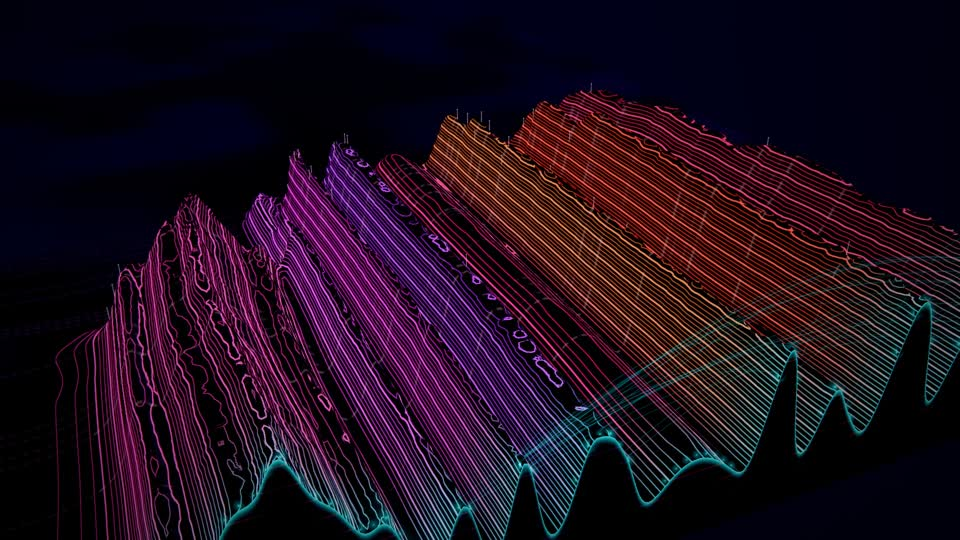
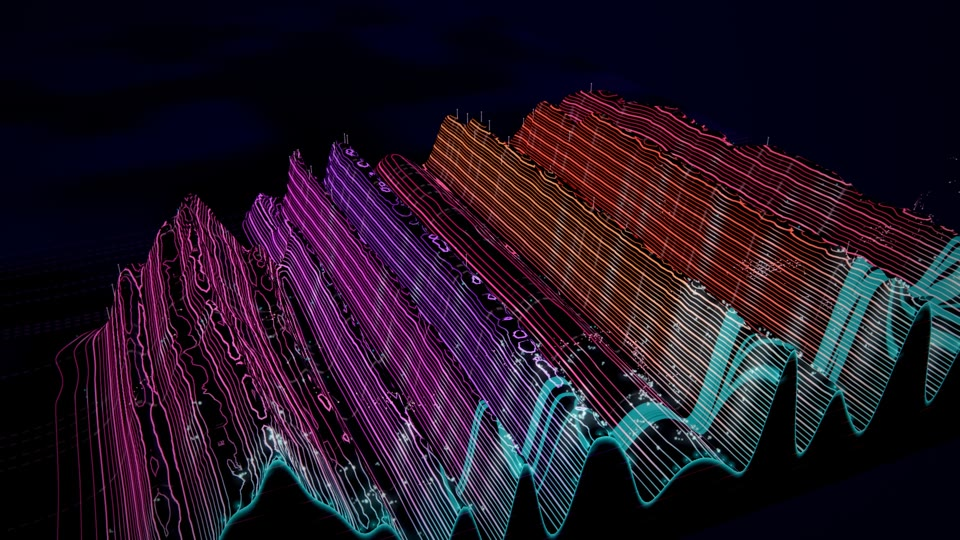
docs(terrain): the idle flight, roads as paths in the land, agents along them, music; what is not done
temporal-terrain.md: a Roads section, how agents travel along roads and meet on one file, the flight over history
under Idle behaviour, a Music section, the flight and the roads under Determinism (worlds.qual.js determinism, idle,
privacy and resources for this family on SwiftShader: 8/8; the same procedure at two moments of Self's flight: same
frame), measured GPU and CPU cost against main, and What is not done brought up to date: the digital life was watched
by the owner in the accepted Lumen Recipes film (life.qual.js still not run), the far-history bullet becomes the
flight's limits, roads are paths now and agents' road journeys never occur in the recorded datasets. New stills: the
hero (Self at 50 %, roads in the land), a full-resolution detail of the roads, the flight at its far point. Two stray
lines at the end of the file are gone. WORLDS.md mentions the roads and the flight; CHANGELOG has an Unreleased entry.

diff --git a/docs/worlds/temporal-terrain.md b/docs/worlds/temporal-terrain.md
@@ -8,23 +8,25 @@ ridges that run back through time from the moment they were created, symbols the
 ridges. A replay lays the land down: every file that arrives raises a ridge at the front edge that then travels back
 with the rest of history; where a ridge grew, its contour lines turn and crowd.
 
-**Status.** The sixth built-in world family (`public/worlds/terrain.js`, `terrain-layout.js`, `terrain-glsl.js`), a
-preview until generator 5 graduated it: the family scores can choose it, it is a base for declarative and shader packs,
-the Visual Studio offers it with two curated looks and the Artist Studio composes over it. Graduating it changed no
-existing identity (see [Selection and compatibility](#selection-and-compatibility)). It can be inhabited: its
-[digital life](#digital-life) (herds of light on the land of time) is on when the recipe's life values say so (new
-identities from generator 5 have it on), and off the world is exactly as it was. The owner watched it, inhabited, on a
-film of the whole Lumen Recipes session (life on, 1920×1080 on the AMD iGPU) and accepted it (2026-10-31); before
-that it was judged from stills only, and its curated looks have not been reviewed (see [What is not done](#what-is-not-done)).
-Everything described here is implemented unless marked *planned*.
+**Status.** The sixth built-in world family (`public/worlds/terrain.js`, `terrain-layout.js`, `terrain-roads.js`,
+`terrain-glsl.js`), a preview until generator 5 graduated it: the family scores can choose it, it is a base for
+declarative and shader packs, the Visual Studio offers it with two curated looks and the Artist Studio composes over it.
+Graduating it changed no existing identity (see [Selection and compatibility](#selection-and-compatibility)). It can be
+inhabited: its [digital life](#digital-life) (herds of light on the land of time) is on when the recipe's life values
+say so (new identities from generator 5 have it on), and off the world is exactly as it was. The owner watched it,
+inhabited, on a film of the whole Lumen Recipes session (life on, 1920×1080 on the AMD iGPU) and accepted it
+(2026-10-31); before that it was judged from stills only, and its curated looks have not been reviewed (see [What is not
+done](#what-is-not-done)). Everything described here is implemented unless marked *planned*.
 
 ![Self, halfway through its session](temporal-terrain-hero.jpg)
 
 *Self (92 files in 10 subsystems, a 20-minute recorded session) at 50 %: rose, magenta and amber ranges on its
 analogous harmony, the present's skyline lit in the identity's cool lamp colour at the front edge, the roads of its
-cross-subsystem dependencies arching over it, and the survey stakes and dotted survey lines of its commits laid back
-through its history. Every still on this page: GPU (AMD Radeon iGPU through WSL2 D3D12, ANGLE's EGL backend),
-rendered at 1920×1080 at quality 0 on the film path, shown at 960×540.*
+cross-subsystem dependencies as paths of the same light climbing from the peaks at the front edge into the land (at
+the right), and the survey stakes and dotted survey lines of its commits laid back through its history. Every still on
+this page: GPU (AMD Radeon iGPU through WSL2 D3D12, ANGLE's EGL backend), rendered at 1920×1080 at quality 0 on the
+film path, shown at 960×540. The six stills below predate the roads as paths in the land and the idle flight: where
+they show roads, they are arcs over the front edge.*
 
 | | |
 |---|---|
@@ -76,12 +78,13 @@ history, see [Determinism](#determinism)) or the recipe; ambient life is labelle
 | File state over time (`stateAt`): stressed | A **fault**: warning-coloured contours and a glowing fissure along the ridge for exactly as long as it was stressed, hot at the front, cooling to an ember scar with age | The scar stays in history between the failure and its recovery |
 | File state: validated | A calm sheen in the valid colour on the ridge's index contours | |
 | Commits: the recorded `repository.commit.observed` cues (live: the files the model saw committed, and the director's recent checkpoints) | A **survey line** across the land at the commit's moment, and a **stake** of light on each committed ridge | They recede with the land: the cadence of commits reads as a line of markers through history |
-| Dependency: `model.links` across subsystems (`a` imports `b`) | A **road of light** arching from the importing file's peak to the imported one's just behind the front edge | Pulses run along it from the importer when its file fires; at most 32, newest first; dimmer the more there are |
+| Dependency: `model.links` across subsystems (`a` imports `b`) | A **road**: a path of light in the land just behind the front edge, from the importing file's peak down into the valley beside its range, across at a depth of its own and up to the imported peak | Pulses run along it from the importer when its file fires; at most 32, newest first; dimmer the more there are. See [Roads](#roads) |
 | Agent presences (`frame.agents`) and their tool events (`public/worlds/touch.js`) | A **surveyor**: a light in the agent's CAST colour and shape hovering over the ridge it works on, its beam and a pool of its colour on the ground; its edit **raises the ground** there | See [Agents](#agents) |
 | Director commands (`effect`) | The vocabulary below | Never time alone |
 | `director.lasting()` | **Monuments**: a beacon on the subject's ridge at the milestone's moment (a cairn for a validated refactor), with a pool of warm light | Lasting; they recede with the land; rebuilt after a seek |
 | `director.unlockedAt` | Dawn (the horizon and the key light warm), lanterns (small lights along the ridges in history), stars, aurora | Verified milestones only, in that order |
-| `director.activityAt`, the score (`frame.music`) | The beat shimmer's strength; whether the idle drift runs | |
+| `director.activityAt`, the score (`frame.music`) | The beat shimmer's strength; whether the idle drift and the idle flight run | See [Idle behaviour](#idle-behaviour) |
+| The host's musical clock (`ctx.musicAt`: rhythm and section per bar) | The present's contour lines shimmer on the eighths the arrangement plays; a section's onset sends a soft wave back over the land | See [Music](#music) |
 | Digital life (`genome.life`, ambient) | Grazers, swifts and gleaners on the land, their light and paths | Simulated inhabitants, never agents, files or events: see [Digital life](#digital-life) |
 
 ## Visual grammar
@@ -130,6 +133,33 @@ Pure functions of the recipe, the model and the time (`terrain-layout.js`, no TH
    cubic B-splines across and along, then adds the relief's texture (`reliefAt` is its JS twin, so lights, stakes and
    beacons stand on the drawn surface). Smooth effects are computed per vertex; the fragments draw the lines.
 
+## Roads
+
+The present's dependencies between subsystems (`model.links` whose two files lie in different ranges; at most 32, the
+newest first) are paths in the land near the front edge (`terrain-roads.js`, pure functions of the layout; pinned in
+`tests/terrain-roads.test.js`):
+
+- **The path.** A road leaves the importing file's peak at the front edge, runs down into the valley beside its range on
+  the imported file's side (half way between its outermost ridge and the facing ridge of the next range), crosses the
+  land at a depth of its own and climbs from the valley beside the imported file's range to its peak. The depth grows
+  with the distance between the two files (3 to 15 units, about 2 to 12 s behind the present), so a longer road passes
+  behind the shorter ones it spans instead of crossing them; between neighbouring ranges both valleys are one and the
+  road dips into the valley between them. Roads that share a route add up: a busy route is brighter.
+- **Drawn by the land.** The land's shader reads the roads from a light map in the layout's frame (1024 × 64 cells over
+  the lane grid and the first 18 units of depth) at the place where it reads the land itself, so a road lies on the
+  drawn ground and the ground hides it where it hides the ground: a fine core in the lamps' colour with a faint halo,
+  the contour lines it crosses a little brighter. Each road's stamp is kept with its plan; the map is drawn again only
+  when a plan, a road's draw-in or the lane grid changed, on a lattice of 100 ms of view time (the land eases under the
+  roads after a birth; between lattice points they hold still).
+- **Life.** A new road draws itself from the importer over 2.4 s; a removed one fades over 1.6 s; when the importing
+  file fires (an edit), a pulse runs along the path to the imported peak, where a small glow stays.
+- **Intra-subsystem dependencies** are not drawn.
+
+![Roads in the land at the front edge](temporal-terrain-roads.jpg)
+
+*Self at 50 %, a detail of the hero still at full resolution (1920×1080, uncropped pixels): roads climb from the
+peaks at the front edge into the land and cross over to other ranges behind them.*
+
 ## Agents
 
 - **Each provider its own colour and shape** (CAST seat, `public/providers.js`): Claude rose four-point spark, Cursor
@@ -142,6 +172,20 @@ Pure functions of the recipe, the model and the time (`terrain-layout.js`, no TH
   dome for about three seconds (the contour lines open into rings around it), two rings of its colour open from it over
   about two seconds, brightest on the contour lines they cross, its beam and pool brighten. An edit's touch brings the camera to a medium close-up unless a failure, a recovery or a
   milestone-tier event holds it. Reading is quieter (0.45 of an edit).
+- **How it travels.** When its goal moves from one range to another (from the file it worked on, or from its home range
+  while it circled there, to the file it works on now) and the roads join those ranges (at most three roads, found
+  breadth first in the roads' own order, on each hop the road whose end lies nearest), it flies down to the road's end
+  in its range, along the road's own path 1.7 units above the drawn ground (and along the front edge between two roads
+  in one range), and up to its new goal, over the time the path takes at 26 units a second (1.8 to 4.5 s), its trail
+  following the road; its beam is short and its pool on the land stays lit. Otherwise it travels a lifted arc over 1.8 s,
+  as before.
+- **Two agents on one file** (`agent.collision`; the director gives it the family's integration look, `road`, which is
+  otherwise drawn from the model's own times): each agent's signal, in its colour and shape, runs in over the ground
+  toward that file's peak from its own side (seeded by the event) over 1.2 s with a short trail; where they meet a ring
+  in both colours spreads and fades over about three seconds. A pure function of the time since the event.
+- Real data is sparse here: in the recorded datasets no agent ever moves between two ranges that a road joins at that
+  moment (Lumen Recipes: 54 attributed edits, two roads, both into one range; *lumen-long*: 4,838 attributed edits),
+  so road journeys were seen only in the tests and on a constructed scene ([What is not done](#what-is-not-done)).
 
 ## Events, failure, recovery and the earned sunrise
 
@@ -155,6 +199,7 @@ Pure functions of the recipe, the model and the time (`terrain-layout.js`, no TH
 | `repository.checkpoint` (survey) | The commit's survey line flashes across the land and its stakes light |
 | `milestone.achieved` (sunrise), `refactor.validated` (terrace) | The **earned sunrise** or a local glow (below); a beacon (a cairn for a refactor) stays |
 | `world.expanded` (horizon) | A brief lift of exposure |
+| `agent.collision` (the integration look, `road`) | Two signals in the agents' colours run in over the ground to the shared file's peak and meet in a ring of both colours (see [Agents](#agents)) |
 
 **The sunrise rule.** As in Synaptic Storm and Fractal Continuum: a sunrise needs the director's milestone tier (3 or more, one of its
 three spectacle tokens) and, in the director's lasting record, the milestone is the first or comes at least **4 minutes
@@ -171,6 +216,55 @@ extends so its contours simply run straight; the key light travels a slow arc (`
 valleys; the contours shimmer on the score's beat grid (on each beat one contour level in four brightens, climbing the
 land beat by beat); motes drift; and the camera drifts between its vantage points (oblique, low along the land, high
 above) every 170 s (`motion.drift`). Nothing grows.
+
+**The flight over history.** Once the performance has been idle a while, the camera flies back along the time axis over
+the land's history, the older land that the logarithmic depth compresses into the haze, and returns to the present:
+
+- **When.** The quiet begins at the latest happening the world observes: an effect the director decided, an event of
+  the land's history (a birth, a removal, a symbol, a state), an edit, an agent's state. An agent at work (processing,
+  using a tool, reasoning) holds it until its state is unknown (three minutes without an observation). The first flight
+  starts once the quiet has lasted 24 s of view time and the director's activity has fallen below 0.06 (the host calls
+  the performance idle below 0.08); then 48 s at the present, and later flights on a lattice of view time (every 120 s,
+  from a whole period after the first), so a flight never depends on how long ago a happening was forgotten. It flies
+  only where there is history to fly over: the land's first recorded change must lie at least 40 units beyond where
+  the camera's own vantage looks, at the flight's start. Self flies 60 s after its last event; Lumen Recipes' four
+  minutes lie within its default view (its land is 247 units wide) and it first flies 361 s after its last event; a land
+  whose structure all stood before time has no recorded change and never flies (Excalidraw: none in a 200 s idle tail
+  replayed in Node).
+- **The path.** The camera's target travels back over 28 s (eased) to 12 units short of the land's first recorded change
+  (at most 78 % of the deepest row), over the land as it was then (its centre and width at that moment), with a slow
+  sway across; the camera rises (elevation at least 0.56, looking down on the old land), comes a little closer and looks
+  more along the time axis. It lingers 16 s where the land began (its birth slopes the skyline ahead, the empty plain
+  beyond) and returns over 28 s. The land's haze and mist count from the depth the camera has flown back to (0 at the
+  present, so the land is as before when it does not fly), and so do the digital life's fade and the motes.
+- **It yields at once.** Any happening ends it: the goal is the present's again at that moment (with whatever close-up
+  the happening brings), and for a few seconds the camera returns at a higher rig rate, the faster the farther out it
+  was. The viewer's motion at 0 keeps it at the present.
+- **Framing.** Portrait (9:16) keeps its steep view (time runs up the frame) and frames the middle of the old land; the
+  labels at the front edge leave the frame while the camera is out over the past.
+- The goal is a pure function of the performance and the moment (tested: the same goal whatever was drawn before and
+  at any frame rate); the camera rig eases toward it as it does toward every goal.
+
+![The flight over history, at its far point](temporal-terrain-flight.jpg)
+
+*Self 91 s after its last event, the flight at its far point, about 190 units back: the old ranges close up, their
+contours running back like grain and turning where they changed, the dotted survey lines of its commits across them,
+and ahead the skyline of the slopes where its ranges rose out of the plain (where the land began), the dark empty plain
+beyond. Rendered with a scratch copy of `qualification/visual/lab.js` that prints the world's flight state (continuous
+frames at 15 fps from 59 s after the last event).*
+
+## Music
+
+With the host's musical clock (`ctx.musicAt`, a pure function of the performance's frames; absent in a pack frame or
+headless), read per bar as in Synaptic Storm:
+
+- **The eighths.** The present's contour lines (the hot land near the front edge) shimmer on each off-beat eighth, as
+  strongly as the arrangement plays rhythm in that eighth's own bar (read at its bar, so a shimmer under way never
+  changes), decaying within the eighth; scaled by `motion.shimmer` and `music.reactivity`.
+- **A section's onset.** When a new section starts, a soft wave of light travels back over the land from the front edge
+  (26 units a second, fading over six seconds), brightening the contour lines it passes in their own colours.
+
+Pinned in `tests/terrain-music.test.js` against a stub clock; not yet seen or heard in a film with the score.
 
 ## Digital life
 
@@ -282,6 +376,21 @@ Transient effects are cleared after a seek; commits come back from the model, mo
 (the same frame bit for bit after a receiver restart and after a rebuild from the journal alone, and the three projects
 structurally different).
 
+The idle flight's goal is a pure function of the performance and the moment: when the quiet began comes from what the
+director, the land's history, the edits and the agents' lifecycle hold at the moment, later flights sit on a lattice of
+view time, and nothing is integrated over frames (tested: the same goal whatever was drawn before and at any frame
+rate); the haze follows the camera the rig eased toward that goal. The roads' light map is a pure function of the roads
+at the moment's lattice point (tested: the same map reached directly or after other moments); an agent's road journey
+is a pure function of its lifecycle and the time, as before. On this branch, `qualification/visual/worlds.qual.js
+--only determinism,idle,privacy --families temporal-terrain --size 640x360` on SwiftShader, on copies of the datasets:
+**8/8** (the same frame on Self in two sessions whatever the second played before; idle for 90 s on Lumen Recipes the
+image keeps changing while no structure or event appears and the director reports idle; no page errors; 42 distinct
+label strings with no path, file name, identifier or folder name; switching between the six worlds 12 times leaves
+GPU geometries and textures at their level). Lumen's idle samples do not reach its first flight
+(six minutes into the quiet), so the flight was not part of that run; the same determinism procedure at two moments of
+Self's flight (70 and 91 s after its last event, a scratch script, SwiftShader at 640×360) gives the same frame in both
+sessions.
+
 ## Performance
 
 GPU time per frame (the host's timer: background, scene, post, bloom, grade), AMD Radeon iGPU through WSL2 D3D12,
@@ -298,6 +407,16 @@ of these readings; they agree with earlier readings of the same build within 0.5
 quality 0, one reading after 4 s of warm-up): 14.0–16.1 ms over the final stills of the three projects. CPU
 (`updateMs`): 0.15–0.5 ms on Lumen and Self, 0.85–0.98 on Excalidraw; a full refill of the rows after a seek about 2 ms
 once warm (Self, 104 rows computed, Node).
+
+**Roads in the land and the idle flight** (this branch against main at ea515a3, the same moments, film path, quality
+0, 1920×1080, AMD iGPU; other agents shared the machine, load average 2–18). GPU, Self at 50 % (32 roads on screen),
+four readings a second apart after 6 s of warm-up, two runs each: main 16.29–16.40 ms, this branch 16.40–16.52 ms (the
+light map's one texture read per land fragment). At the flight's far point (Self 91 s after its last event) 14.18–14.33
+ms, against 16.05–16.16 ms for main's view of that moment. CPU, Self's whole recorded history replayed into the world in
+Node at 5 frames a second (every frame a new lattice point for the roads), update and camera together: mean 0.53 ms
+(main 0.46), p95 1.73–1.78 (main 0.88), maximum about 5 ms in both; the difference is the light map drawn again while
+ranges ease after a birth (each road's stamp is kept until its plan changes). The player's own `updateMs` on these film
+renders read 1.8–2.7 ms for both builds alike.
 
 How it got there: the first version, with the relief's noise per fragment, the effects looped per pixel and a grid whose
 far rows were sub-pixel, measured 34 ms; profiling by elimination found the fragment noise (about 7.5 ms), the far grid
@@ -359,8 +478,14 @@ about 1.3 ticks a frame). The shared GPU hides the life's own GPU cost in this n
 
 - **Watched in motion once:** the owner accepted a film of the whole Lumen Recipes session with life on (2026-10-31);
   the judgements in this document were made from stills before it. The owner's reference images were not available.
-- **The far history of a long session** is compressed by the logarithmic depth: Self's first fifteen minutes lie past
-  depth 150, in the haze; the camera never travels back along the time axis (*planned*: an idle flight over history).
+  The idle flight, the roads as paths in the land, the agents' road journeys and the music came after that film: they
+  were judged from stills, contact sheets and short scratch clips only, not by the owner.
+- **The flight over history** was seen on Self (stills every 8 s through a whole flight, landscape and portrait) but
+  not on Lumen (it first flies six minutes into an idle tail) or on a long history (*lumen-long*). The land's grid is
+  spaced for the view from the present: at depth 200 its rows are about 2.4 units apart at quality 0 (0.5 at the front
+  edge), and in the far-point stills some contour bends look angular. A flight interrupted by a real event was not seen
+  on the GPU: no recorded dataset has an event during a flight (tested in Node only, including the faster return). It
+  always flies to where the land began; it does not visit particular moments (a failure's scar, a milestone).
 - **The commit's survey line** lies right behind the front edge while it flashes: it reads across the ranges there, but
   a single file's stake is small from the default three-quarter view; the lasting dotted lines read better further back.
 - **The touch's rings** now last about two seconds and cross the contour lines (checked in stills only, not in motion);
@@ -368,23 +493,28 @@ about 1.3 ticks a frame). The shared GPU hides the life's own GPU cost in this n
   seen from afar.
 
   ![An edit's rings, 1.4 s on](temporal-terrain-touch-rings.jpg)
-- **Roads** are arcs over the front edge, not paths in the land; in a dense project (Excalidraw: 32 roads) they read as a
-  web. Intra-subsystem dependencies are not drawn.
+- **Roads** are paths in the land near the front edge; seen in stills of Self and Excalidraw (32 roads each), where in
+  their close default views they read as bands of the lamps' colour several pixels wide climbing the ridges and running
+  along behind the front edge (on Excalidraw's wide massif, near the present's lit skyline, in the same colour); not
+  watched in motion. The six
+  older stills above still show them as arcs. Intra-subsystem dependencies are not drawn. **An agent's road journey**
+  never happens in the recorded datasets (no agent moves between two ranges a road joins at that moment): it was seen in
+  the tests and in one scratch render of Lumen Recipes with a dependency added to the world's history model (not in this
+  document).
 - **A ridge's birth slope** shifts by up to about two units when its row passes from one level of the pyramid to the next
   (the levels filter over different spans).
 - **Auto** was only seen holding level 0 at 60 fps; it was not seen stepping down on a slower machine. Only the AMD iGPU
   and the shader compile path were exercised: nothing was rendered on the NVIDIA adapter, in OBS, on SwiftShader at
   1920×1080, or over a long soak. The web demo and Visual Studio UI suites (`qualification/site/web-demo.qual.js`,
   `qualification/ui/workspaces/visual.qual.js`) were updated for the sixth world but not run.
-- **Digital life**, built and tested in Node, seen in stills only: nobody has watched it move (the herds' walk against
-  the flow of time, the murmurations, the gleaners' slow rides were judged from single frames and contact sheets too
-  small to read). Its GPU cost was not isolated from the other renders on the shared GPU. At the widest framing (the
+- **Digital life**, built and tested in Node; the owner watched it move in the film of the whole Lumen Recipes session
+  with life on and accepted it (2026-10-31). Its GPU cost was not isolated from the other renders on the shared GPU. At the widest framing (the
   idle vantage points) a grazer is a few pixels, and on Excalidraw's dense massif the herds have little contrast. The
   land's profile the herds steer by is the present's (deeper, where the land was narrower, they do not know its old
   valleys); the paths show only through the contour lines (the fields are 2 units a cell). In replays faster than 1.5×
   the life lags the land (its paths fade). Not run: the qualification's browser suites for life
   (`qualification/visual/life.qual.js`), a live session, the soak.
+- **Music**: the eighths' shimmer and the section's wave are pinned against a stub clock in Node; they were not seen
+  with the real score in a film, nor heard alongside it.
 - **Generator inclusion and graduation** are done (generator 5, above); its curated looks have not been reviewed
   artistically.
-</content>
-</invoke>

diff --git a/CHANGELOG.md b/CHANGELOG.md
@@ -1,5 +1,26 @@
 # Changelog
 
+## Unreleased
+
+- **Temporal Terrain flies over its history when the performance is idle:** once nothing has happened for 24 s and the
+  director's activity is idle, the camera travels back along the time axis over the older land that the logarithmic
+  depth compresses into the haze, to where the land's recorded history began, lingers there and returns (72 s in all;
+  later flights every 120 s while the quiet lasts). Any happening ends it at once, an agent at work holds it, and it
+  flies only where the history reaches well beyond the camera's own view (Self 60 s after its last event, Lumen
+  Recipes after six minutes, never a project indexed whole by its first scan). Portrait keeps its steep view; the
+  haze counts from where the camera is, so the old land is clear around it. A pure function of the performance and
+  the moment, like the rest of the world.
+- **Roads in the land:** Temporal Terrain's dependencies between subsystems are paths of light in the land near the
+  front edge instead of arcs over it: from the importing peak down into the valley beside its range, across at a depth
+  of its own (a longer road behind the shorter ones it spans) and up to the imported peak, drawn by the land's own
+  shader. An agent moving between ranges the roads join travels along them; two agents on one file are two signals in
+  their colours meeting at its peak. The recorded datasets never move an agent along a road, so this was seen only in
+  tests and a constructed scene.
+- **Temporal Terrain hears the music:** with the host's musical clock, the present's contour lines shimmer on the
+  off-beat eighths the arrangement plays, and a new section sends a soft wave of light back over the land. Tests:
+  `tests/terrain-flight.test.js`, `tests/terrain-roads.test.js`, `tests/terrain-music.test.js`; design and what is not
+  done in [docs/worlds/temporal-terrain.md](docs/worlds/temporal-terrain.md).
+
 ## 0.8.1 — 2026-10-31
 
 Product 0.8.1, for use on your own machine; not stable. This tag is `v0.8.1`. Visual Recipe generator **5**: Synaptic

diff --git a/docs/WORLDS.md b/docs/WORLDS.md
@@ -259,13 +259,15 @@ the moment they were created, their height from their live symbols; luminous con
 where code grew fast. Agents survey the land as lights in their provider's colour and shape and raise the ground where
 they edit; tests sweep a scan, a failure opens a fault that stays as a scar for as long as the files were stressed,
 recovery heals it, commits leave survey lines and stakes, and a verified milestone can earn a rare sunrise and a beacon.
-A replay's land is its whole recorded history, also after a seek (the host hands built-in worlds that ask for them the
+Dependencies between subsystems are roads, paths of light in the land near the present that agents travel along
+between ranges; once the performance has been idle a while, the camera flies back over the land's history to where it
+began and returns. A replay's land is its whole recorded history, also after a seek (the host hands built-in worlds that ask for them the
 recorded windows). Its digital life, behind the recipe's `life` values (on for new identities): grazers that graze
 the pastures of the present against the flow of time and shelter from a fault, swifts over the present and gleaners on
 the receding paths. A preview until generator 5, which graduated it: scored for the automatic choice, a base for packs,
 two curated looks; adding it changed no existing identity, and the owner accepted it on a film. Design brief, stills, measured GPU time and what remains:
 [worlds/temporal-terrain.md](worlds/temporal-terrain.md) (`public/worlds/terrain.js`, `terrain-layout.js`,
-`terrain-glsl.js`, `life/terrain.js`).
+`terrain-roads.js`, `terrain-glsl.js`, `life/terrain.js`).
 
 The Visual Studio shows why to choose each world, offers twelve curated looks (two per family, built in and read-only,
 previewed and applied like any preset; the graduated worlds' six are new and have not been reviewed artistically) and
